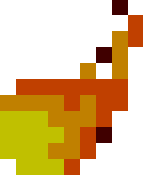
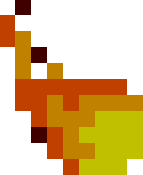
Resolviendo pequenos bugs

diff --git a/main.c b/main.c
@@ -175,8 +175,8 @@ int main()
                         {
                             if (rand()%FPS == 3)
                             {
-                                int tipo = rand()%4+2;
-                                entidad_crear(entidades, &num_entidades, tipo, NULL, NULL); 
+                                //int tipo = rand()%4+2;
+                                entidad_crear(entidades, &num_entidades, HYDRA, NULL, NULL); 
                                 printf("%i\n", num_entidades);
                             }
                         }
@@ -199,11 +199,11 @@ int main()
 
                                 // Calculando la distancia entre el proyectil y el jugador
                                 float dis_x = (proyectiles_enemigo[indice].x_pos + 
-                                            (proyectiles_enemigo[indice].ancho / 2)) - 
-                                            (jugador.x_pos + (jugador.ancho / 2));
+                                               (proyectiles_enemigo[indice].ancho / 2)) - 
+                                               (jugador.x_pos + (jugador.ancho / 2));
                                 float dis_y = (proyectiles_enemigo[indice].y_pos + 
-                                            (proyectiles_enemigo[indice].alto / 2)) - 
-                                            (jugador.y_pos + (jugador.alto / 2));
+                                               (proyectiles_enemigo[indice].alto / 2)) - 
+                                               (jugador.y_pos + (jugador.alto / 2));
                                 double dis_total = pow((dis_x * dis_x) + (dis_y * dis_y), 0.5);
 
                                 // Modificando la magnitud del vector para que sea igual a la velocidad máxima de movimiento de este proyectil
@@ -297,13 +297,13 @@ int main()
                 }
                 else if (evento.timer.source == anim)
                 {
-                    if (mode == 0)
+                    if (mode == 0 && al_get_timer_count(anim) % 2 == 0)
                     {
                         entidad_animar(&entidades_no_vivas[0]);
                         entidad_animar(&entidades_no_vivas[1]);
 
                     }
-                    else if (pausa == 1)
+                    else if (mode == 1 && pausa == 1)
                     {
                         al_set_timer_count(anim, al_get_timer_count(anim) - 1);
                     }

diff --git a/utilidades.c b/utilidades.c
@@ -270,7 +270,6 @@ void entidad_inicializar(struct Entidad *entidad, int tipo, struct Entidad *enti
             entidad->sprite = imagen;
             entidad->alto = al_get_bitmap_height(entidad->sprite);
             entidad->ancho = al_get_bitmap_width(entidad->sprite);
-            printf("%f\n", entidad->ancho);
             break;
     }
 }
@@ -299,8 +298,7 @@ void entidad_eliminar(struct Entidad entidades[], int indice, int *contador)
 void entidad_dibujar(struct Entidad entidad)
 {
     int flag = 0;
-    if (entidad.tipo == HYDRA || entidad.tipo == PROYECTIL_JUGADOR)
-        flag = ALLEGRO_FLIP_HORIZONTAL;
+
     al_draw_scaled_bitmap(entidad.sprite, 0, 0, al_get_bitmap_width(entidad.sprite), al_get_bitmap_height(entidad.sprite), entidad.x_pos, entidad.y_pos, entidad.ancho, entidad.alto, flag);
 }
 
